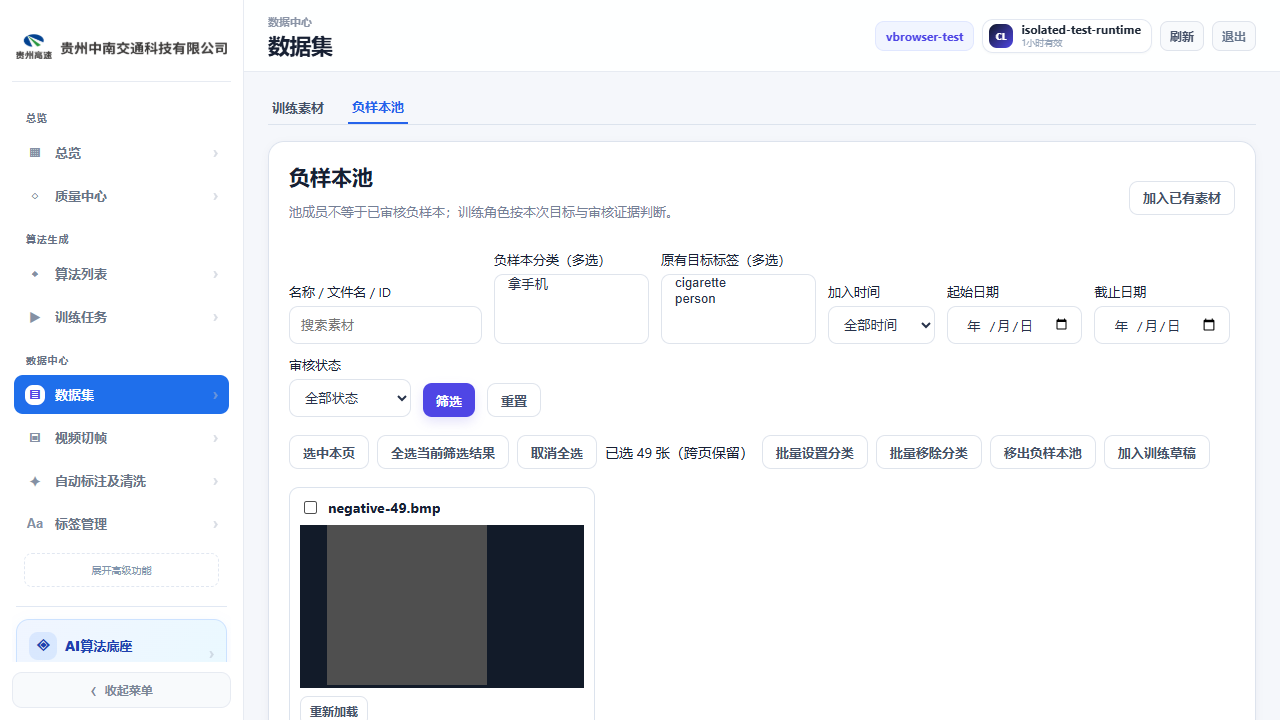
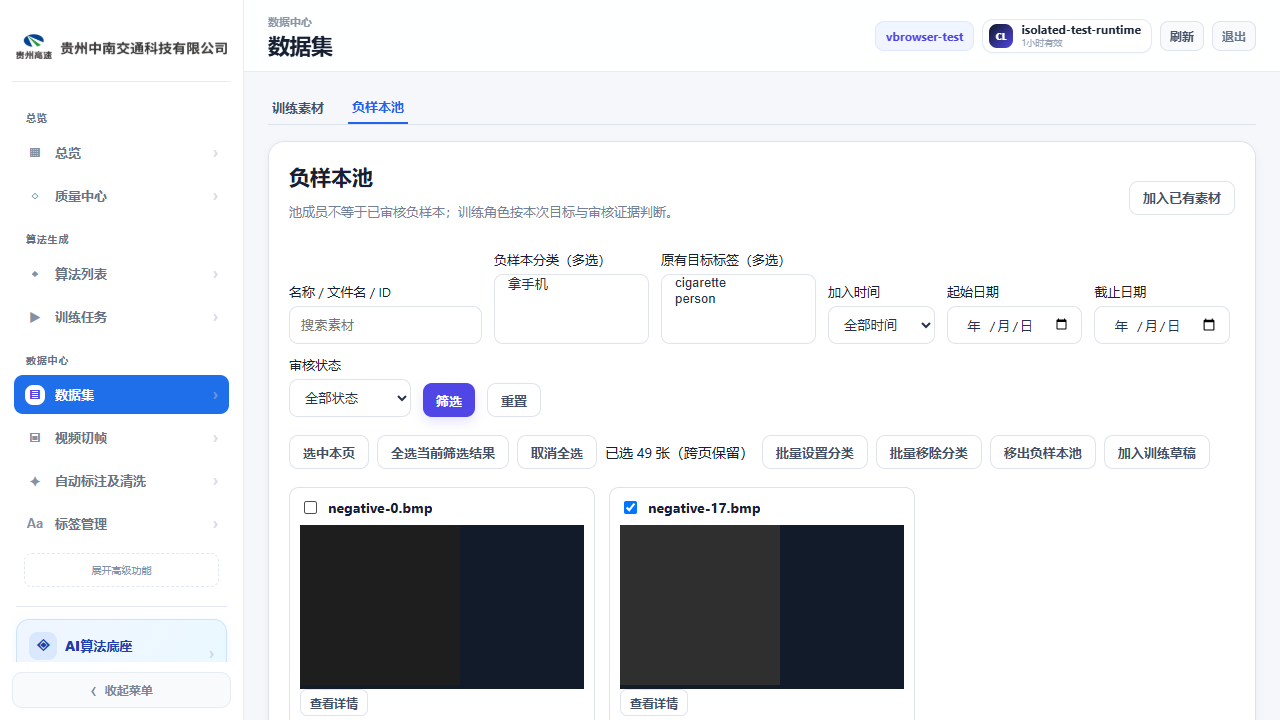
fix(materials): preserve valid pool preview and retry button structure

Changed region(s): [[0.4688, 0.6722, 0.7188, 1.0], [0.2188, 0.7028, 0.4062, 1.0]]

diff --git a/static/modules/negative-pool-runtime.js b/static/modules/negative-pool-runtime.js
@@ -31,7 +31,7 @@ export function installNegativePoolRuntime({getState,api,pid,esc,toast,modal,clo
   const options=(values,chosen=[])=>values.map(x=>`<option value="${esc(x.id)}" ${chosen.includes(String(x.id))?'selected':''}>${esc(x.name)}</option>`).join('');
   function poolHTML(){
     const labels=(getState().labels||[]).map(x=>typeof x==='string'?{id:x,name:x}:{id:x.code||x.name,name:x.display_name||x.code||x.name});
-    return `<section class="panel negative-pool"><header class="row between"><div><h2>负样本池</h2><p>池成员不等于已审核负样本；训练角色按本次目标与审核证据判断。</p></div>${button('join','加入已有素材')}</header><form data-np-form="filters" class="negative-pool-filters"><label>名称 / 文件名 / ID<input class="input" name="query" value="${esc(filters.query||'')}" placeholder="搜索素材"></label><label>负样本分类（多选）<select class="select" name="category_id" multiple>${options(categories,filters.category_id)}</select></label><label>原有目标标签（多选）<select class="select" name="label" multiple>${options(labels,filters.label)}</select></label><label>加入时间<select class="select" name="joined_days"><option value="">全部时间</option><option value="7" ${filters.joined_days==='7'?'selected':''}>最近 7 天</option><option value="30" ${filters.joined_days==='30'?'selected':''}>最近 30 天</option></select></label><label>起始日期<input class="input" name="joined_from" type="date" value="${esc(filters.joined_from||'')}"></label><label>截止日期<input class="input" name="joined_to" type="date" value="${esc(filters.joined_to||'')}"></label><label>审核状态<select class="select" name="review_status"><option value="">全部状态</option>${['unannotated','annotated','confirmed_empty','stale','unknown'].map(status=>`<option value="${status}" ${filters.review_status===status?'selected':''}>${reviewName(status)}</option>`).join('')}</select></label><button class="btn primary" type="submit">筛选</button>${button('reset','重置')}</form><div class="row negative-pool-tools">${button('page-select','选中本页')}${button('all-select','全选当前筛选结果')}${button('clear','取消全选')}<span id="negativePoolSelection">已选 ${selected.size} 张（跨页保留）</span>${button('assign','批量设置分类')}${button('unassign','批量移除分类')}${button('remove','移出负样本池')}${button('draft','加入训练草稿')}</div><div class="negative-pool-grid">${rows.map(row=>{const id=String(row.id),pool=row.negative_pool||{};return `<article class="negative-pool-card"><label class="row"><input type="checkbox" data-np-select="${esc(id)}" ${selected.has(id)?'checked':''}><b>${esc(row.filename||row.name||id)}</b></label><button class="negative-pool-preview" data-np="preview" data-id="${esc(id)}" aria-label="查看 ${esc(row.filename||id)}">${window.materialMedia412?.(row,true)||`<img src="${esc(row.thumbnail_url||row.url||'')}" loading="lazy" alt="${esc(row.filename||id)}">`}</button><div class="negative-pool-meta"><span>${esc((pool.categories||[]).map(c=>c.name+(c.enabled===false?'（已停用）':'')).join('、')||'未分类')}</span><span>原标签：${esc((row.labels||[]).join('、')||'无')}</span><span>加入：${esc(pool.joined_at||'未知')}</span><span>审核：${esc(reviewName(pool.review_status))}（不代表本次目标已确认无目标）</span><span>训练使用：${esc(usageName(pool.training_usage))}</span><small>${esc(id)}</small></div></article>`}).join('')||'<div class="empty">当前筛选没有素材</div>'}</div><footer class="row end">共 ${total} 张 · 第 ${page} / ${Math.max(1,Math.ceil(total/48))} 页 ${button('prev','上一页',page<=1?'disabled':'')}${button('next','下一页',page*48>=total?'disabled':'')}</footer></section>`;
+    return `<section class="panel negative-pool"><header class="row between"><div><h2>负样本池</h2><p>池成员不等于已审核负样本；训练角色按本次目标与审核证据判断。</p></div>${button('join','加入已有素材')}</header><form data-np-form="filters" class="negative-pool-filters"><label>名称 / 文件名 / ID<input class="input" name="query" value="${esc(filters.query||'')}" placeholder="搜索素材"></label><label>负样本分类（多选）<select class="select" name="category_id" multiple>${options(categories,filters.category_id)}</select></label><label>原有目标标签（多选）<select class="select" name="label" multiple>${options(labels,filters.label)}</select></label><label>加入时间<select class="select" name="joined_days"><option value="">全部时间</option><option value="7" ${filters.joined_days==='7'?'selected':''}>最近 7 天</option><option value="30" ${filters.joined_days==='30'?'selected':''}>最近 30 天</option></select></label><label>起始日期<input class="input" name="joined_from" type="date" value="${esc(filters.joined_from||'')}"></label><label>截止日期<input class="input" name="joined_to" type="date" value="${esc(filters.joined_to||'')}"></label><label>审核状态<select class="select" name="review_status"><option value="">全部状态</option>${['unannotated','annotated','confirmed_empty','stale','unknown'].map(status=>`<option value="${status}" ${filters.review_status===status?'selected':''}>${reviewName(status)}</option>`).join('')}</select></label><button class="btn primary" type="submit">筛选</button>${button('reset','重置')}</form><div class="row negative-pool-tools">${button('page-select','选中本页')}${button('all-select','全选当前筛选结果')}${button('clear','取消全选')}<span id="negativePoolSelection">已选 ${selected.size} 张（跨页保留）</span>${button('assign','批量设置分类')}${button('unassign','批量移除分类')}${button('remove','移出负样本池')}${button('draft','加入训练草稿')}</div><div class="negative-pool-grid">${rows.map(row=>{const id=String(row.id),pool=row.negative_pool||{};return `<article class="negative-pool-card"><label class="row"><input type="checkbox" data-np-select="${esc(id)}" ${selected.has(id)?'checked':''}><b>${esc(row.filename||row.name||id)}</b></label><div class="negative-pool-preview" data-np="preview" data-id="${esc(id)}">${window.materialMedia412?.(row,true)||`<img src="${esc(row.thumbnail_url||row.url||'')}" loading="lazy" alt="${esc(row.filename||id)}">`}<button type="button" class="btn mini" data-np="preview" data-id="${esc(id)}" aria-label="查看 ${esc(row.filename||id)}">查看详情</button></div><div class="negative-pool-meta"><span>${esc((pool.categories||[]).map(c=>c.name+(c.enabled===false?'（已停用）':'')).join('、')||'未分类')}</span><span>原标签：${esc((row.labels||[]).join('、')||'无')}</span><span>加入：${esc(pool.joined_at||'未知')}</span><span>审核：${esc(reviewName(pool.review_status))}（不代表本次目标已确认无目标）</span><span>训练使用：${esc(usageName(pool.training_usage))}</span><small>${esc(id)}</small></div></article>`}).join('')||'<div class="empty">当前筛选没有素材</div>'}</div><footer class="row end">共 ${total} 张 · 第 ${page} / ${Math.max(1,Math.ceil(total/48))} 页 ${button('prev','上一页',page<=1?'disabled':'')}${button('next','下一页',page*48>=total?'disabled':'')}</footer></section>`;
   }
   function categoryHTML(){return `<section class="panel negative-pool"><header class="row between"><div><h2>负样本分类</h2><p>一级管理分类，不参与目标检测类别映射。删除分类只移除关联。</p></div>${button('create-category','新建分类')}</header><form class="row" data-np-form="category-search"><input class="input" name="query" placeholder="搜索分类" value="${esc(filters.categoryQuery||'')}"><button class="btn" type="submit">搜索</button></form><div class="negative-pool-category-list">${categories.map(c=>`<article class="row between"><div><b>${esc(c.name)}</b> · ${Number(c.material_count||0)} 张 · ${c.enabled?'启用':'停用'}</div><div class="row">${button('edit-category','编辑',`data-id="${esc(c.id)}"`)}${button('toggle-category',c.enabled?'停用':'启用',`data-id="${esc(c.id)}"`)}${button('delete-category','删除',`data-id="${esc(c.id)}"`)}</div></article>`).join('')||'<div class="empty">暂无分类</div>'}</div></section>`}
   function dialog(title,body,submit){const projectId=String(pid()),originPage=getState().page;const layer=modal(title,`<form id="negativePoolDialog" class="negative-pool-dialog">${body}<div class="row end"><button type="button" class="btn" data-np-cancel>取消</button><button class="btn primary" type="submit">确认</button></div><div role="alert" data-np-error></div></form>`,true);const form=document.getElementById('negativePoolDialog');form.querySelector('[data-np-cancel]').onclick=()=>window.closeModalLayer424(layer);form.onsubmit=async e=>{e.preventDefault();const btn=form.querySelector('[type=submit]');btn.disabled=true;try{if(String(pid())!==projectId)throw Error('项目已变化，请重新操作');await submit(new FormData(form));if(!form.isConnected||String(pid())!==projectId)return;window.closeModalLayer424(layer);if(getState().page===originPage){if(originPage==='标签管理')await window.renderLabelManagement414();else if(originPage==='数据集')await window.renderDatasets424()}}catch(error){if(form.isConnected)form.querySelector('[data-np-error]').textContent=error.message||String(error)}finally{if(form.isConnected)btn.disabled=false}}}

diff --git a/docs/TRAINING_QUALITY_REMEDIATION_TRACKER_2026_10_18.md b/docs/TRAINING_QUALITY_REMEDIATION_TRACKER_2026_10_18.md
@@ -67,6 +67,9 @@
 
 `0d350b38b468ca1e0a92140423c7afa12eb00ba8` 的First Open剩余3条旧夹具未适配，不能标绿：两个反馈/Benchmark来源追溯用例使用不存在的虚拟素材ID且原已mock全部compatibility，现同一夹具补齐“无待确认、正样本”预检响应，仅用于UI来源合同，不冒充真实GT验证；另一个真实fire/smoke素材用例补点击显式确认再校验非法优先级，仍断言优先级0不POST，重试保持原候选池/划分/参数。三项精确grep复验 **3/3通过**。真实负样本判定/receipt/导出由前述隔离API与实际文件、真实Chrome独立覆盖，不通过fixture修改放宽后端规则。本轮最终共7种相关Chrome场景分批通过，不把重复执行计入数量，不新增全仓本地回归。
 
+
+截图复查补修：原materialMedia412带原生重试按钮，池卡片外层不能再使用button，否则浏览器修复嵌套button DOM后正常图片也残留重试控件。改为普通容器和独立详情按钮，保留原图片加载/失败重试Owner。原池Chrome增加“图片加载成功且错误区不可见”断言，**1/1通过**，跨页/分类/草稿断言完整保留；截图已更新。不增加另一套图片加载器。
+
 ## 2026-10-27｜训练稳定性接续入口
 
 SQLite锁、Lease/GPU保护、断点续训三时间及最终Worker专项见[唯一记录](TRAINING_SQLITE_LEASE_TIMING_2026_10_27.md)，不重建既有训练/GT/调度。最终SHA验收以该专项为准。
